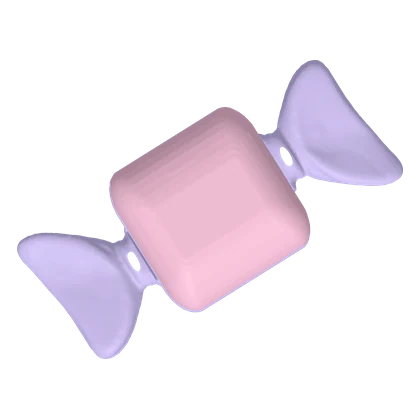
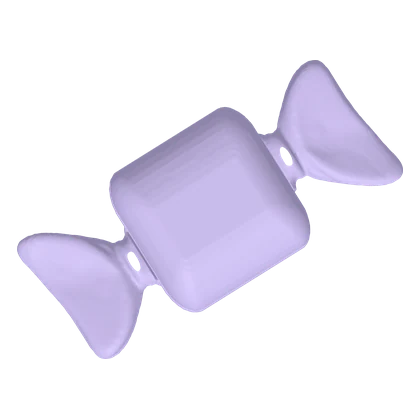
Clickly: Candy Pop todo lavanda
Claude-Session: https://claude.ai/code/session_01CakWamoGNygWeoKn5u5X5H

Changed region(s): [[0.2476, 0.2476, 0.7429, 0.7429]]

diff --git a/clickly/index.html b/clickly/index.html
@@ -371,7 +371,7 @@ const POPS=[
  {id:'mate',n:'Mate Pop',line:'ar',c:'#6F9140',ct:'Click en la yerba',d:'Un mate de calabaza con su virola y la yerba arriba, con palitos. Apretás la yerba y hace clic.'},
  {id:'pancake',n:'Pancake Pop',line:'bf',c:'#E8A33D',ct:'Click en el panqueque de arriba',d:'Una pila de panqueques con almíbar y una pastillita de manteca arriba.'},
  {id:'macaron',n:'Pink Macaron Pop',line:'sweet',c:'#EF97B1',ct:'Click en la tapita de arriba',d:'Un macaron con tapitas rosa pastel y relleno blanco.'},
- {id:'candy',n:'Candy Pop',line:'sweet',c:'#CDBFF0',ct:'Click en el medio rosa',d:'Un caramelo con su envoltorio y las puntas torcidas.',local:1},
+ {id:'candy',n:'Candy Pop',line:'sweet',c:'#CDBFF0',ct:'Click en el medio',d:'Un caramelo con su envoltorio y las puntas torcidas.',local:1},
  {id:'muffin',n:'Muffin Pop',line:'bf',c:'#F7A8C4',ct:'Click en la crema',d:'Un muffin con pirotín marrón, bizcocho y mucha crema batida rosa.',local:1},
  {id:'pan',n:'Pan Pop',line:'bf',c:'#B5712C',ct:'Click en la miga',d:'Una rebanada de pan de molde, con la miga a ras de la corteza. Apretás la miga y hace clic.',local:1},
 ];
